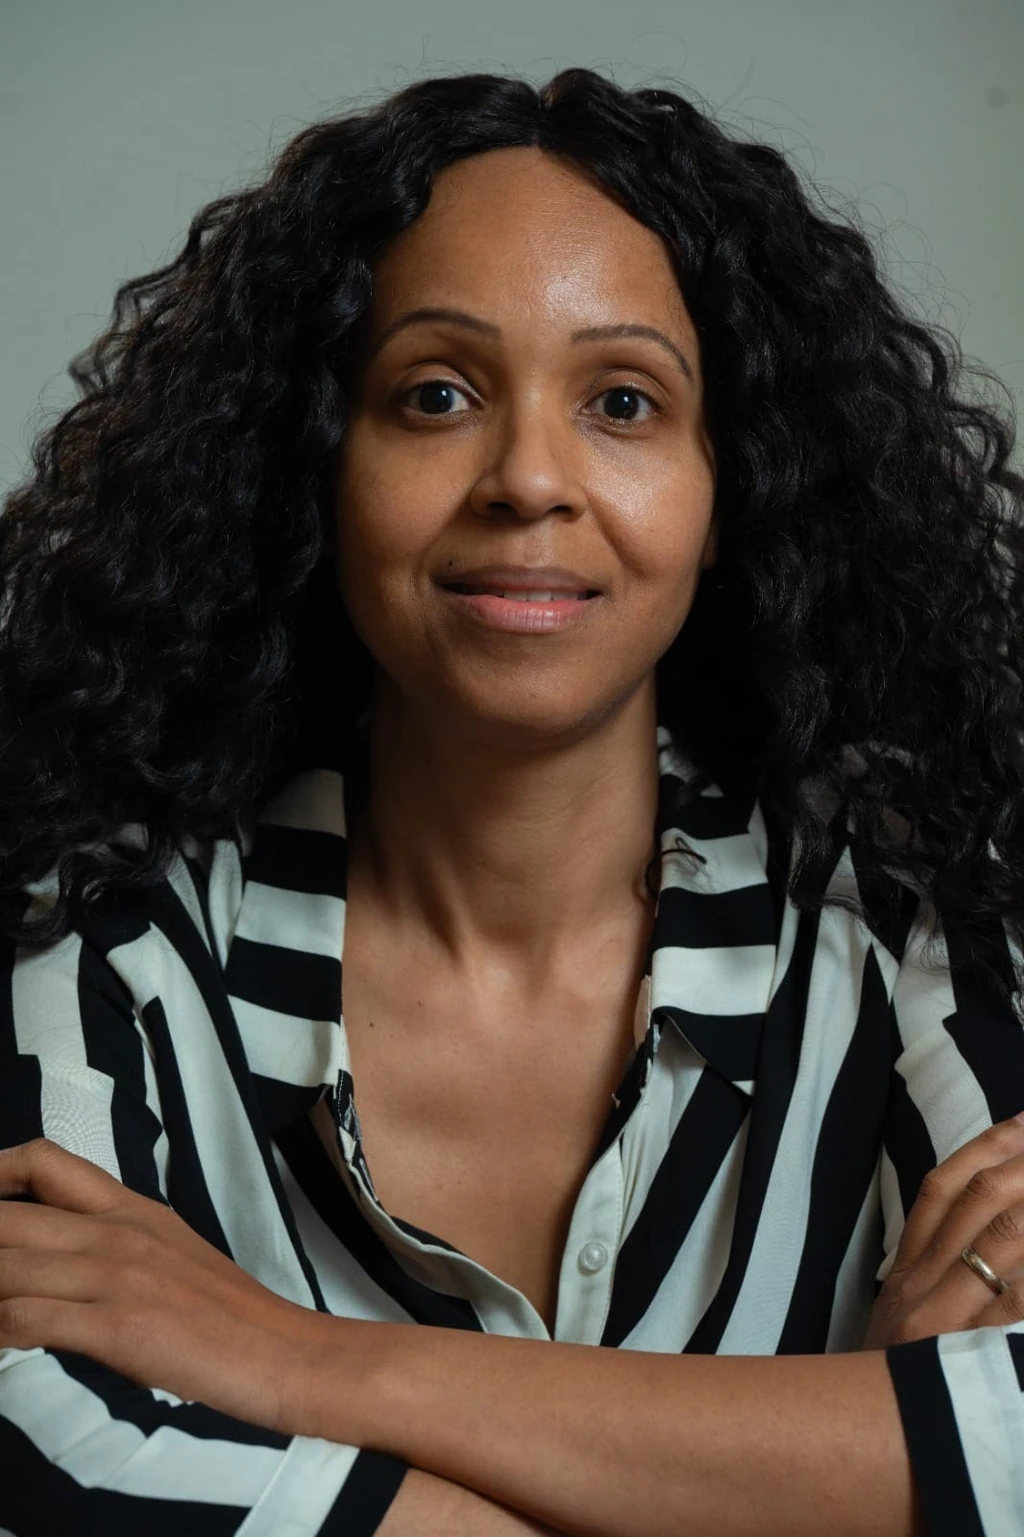
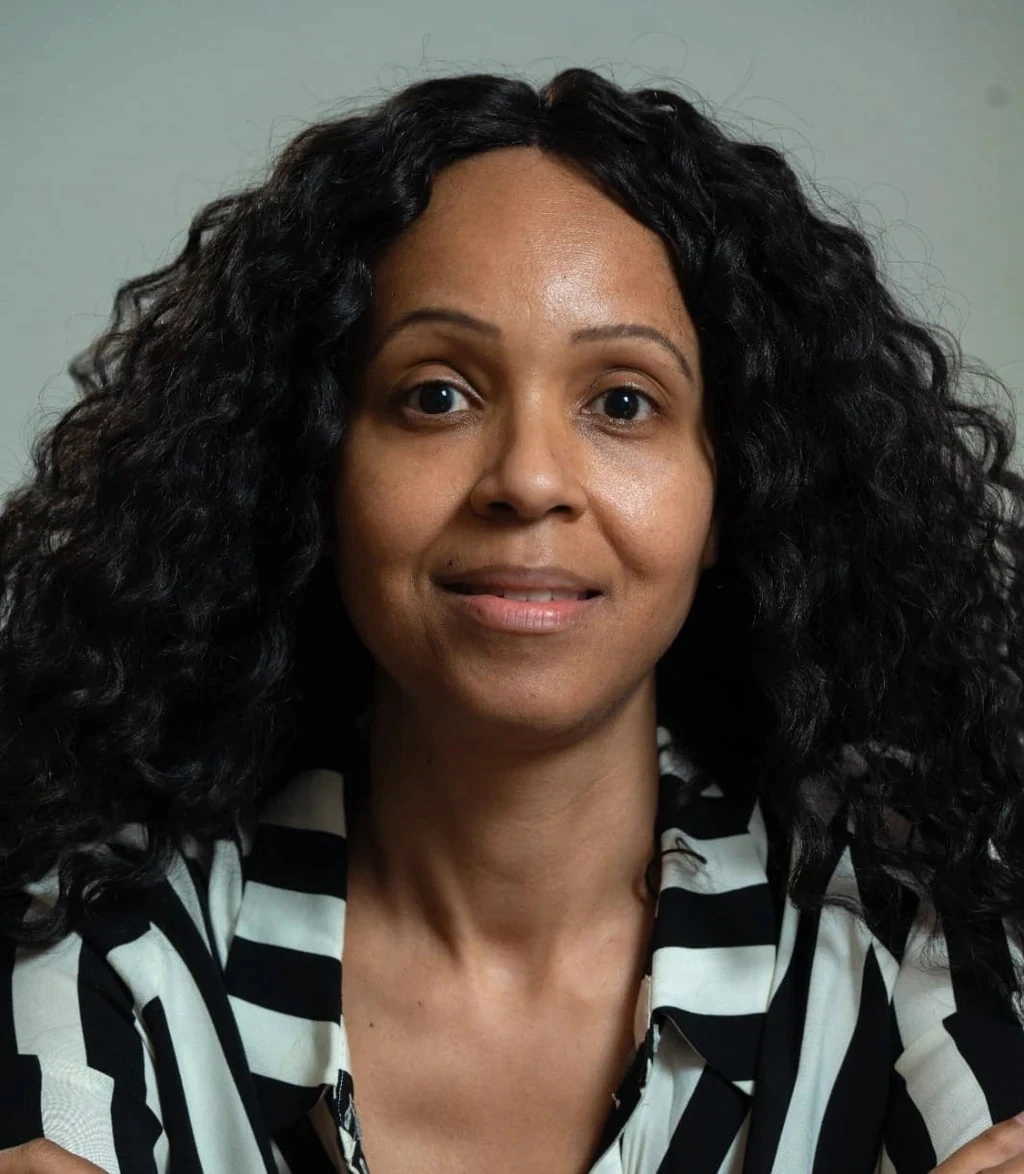
Update Nir and Deborah portraits (new headshots)
Regenerated via portraits:build; cache-bust versions auto-stamped.

diff --git a/lib/site.ts b/lib/site.ts
@@ -65,8 +65,8 @@ export const MEDIA = {
   // generic Wix-hosted office shot with a piece tuned for the firm's tone.
   // Lawyer portraits below remain the originals (`/media/lawyers/*`).
   heroBg: "/media/site/antwerp-chambers.webp",
-  nirPhoto: "/media/lawyers/nir.webp?v=0acec1df",
-  deborahPhoto: "/media/lawyers/deborah.webp?v=5825de01",
+  nirPhoto: "/media/lawyers/nir.webp?v=1948d615",
+  deborahPhoto: "/media/lawyers/deborah.webp?v=664af79c",
 } as const;
 
 export const LAWYERS = [
